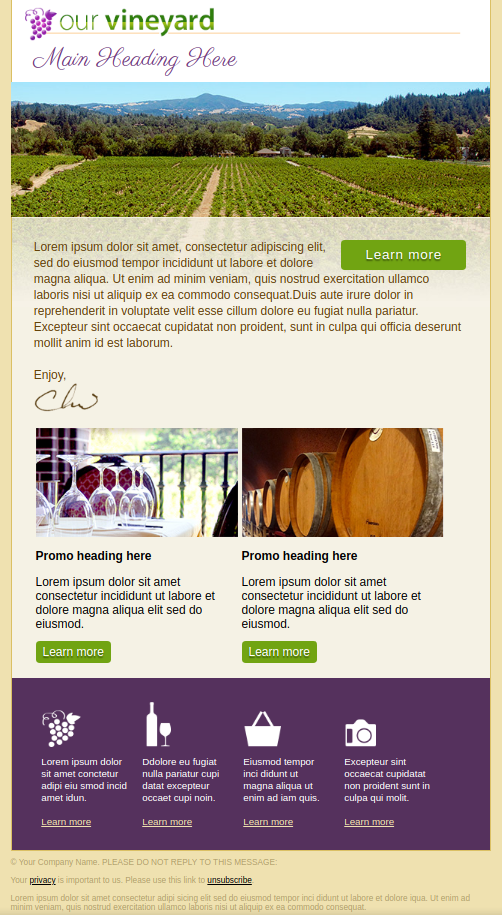
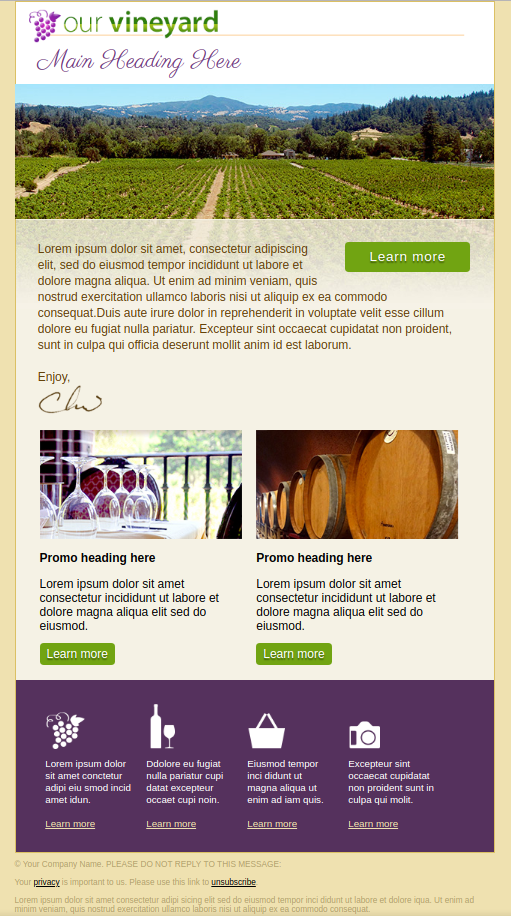
fixing screenshot

Changed region(s): [[0.0, 0.0, 0.9861, 1.0], [0.6873, 0.765, 0.8665, 0.918], [0.508, 0.765, 0.5378, 0.7956]]

diff --git a/email.html b/email.html
@@ -62,7 +62,7 @@
 				td.promos table.promo_1 { width: 100% !important; border-top: 1px solid #71a412; }
 				td.promos table.promo_1 td { background: url(images/promo_1_small.jpg) no-repeat 0px 40px; padding: 20px 0px 40px 110px; }
 				td.promos table.promo_2 { width: 100% !important; }
-				td.promos table.promo_2 td { background: url(images/promo_2_small.jpg) no-repeat 0px 20px; padding: 0px 0px 0px 110px; clear: left; }
+				td.promos table.promo_2 td { background: url(images/promo_2_small.jpg) no-repeat 0px 20px; padding: 0px 0px 0px 110px; }
 
 				td.callout { padding: 20px 30px 0px 30px !important; }
 				td.callout table { width: 100% !important; margin-bottom: 20px; }
@@ -149,7 +149,7 @@
 									</tr>
 								</table>
 
-								<table class="promo_2" width="270" align="left">
+								<table class="promo_2" width="270" align="center">
 									<tr>
 										<td>
 											<img class="promo" alt="Promo image 2" src="images/promo_2_large.jpg">
